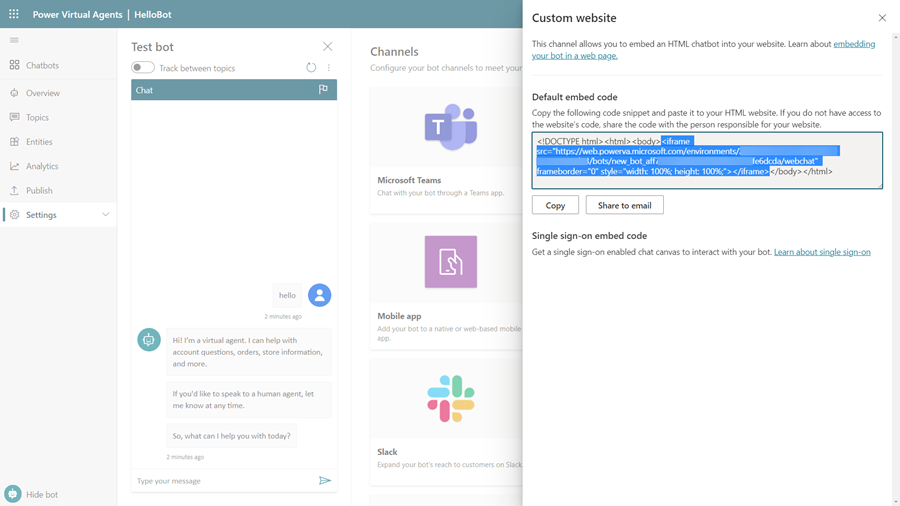
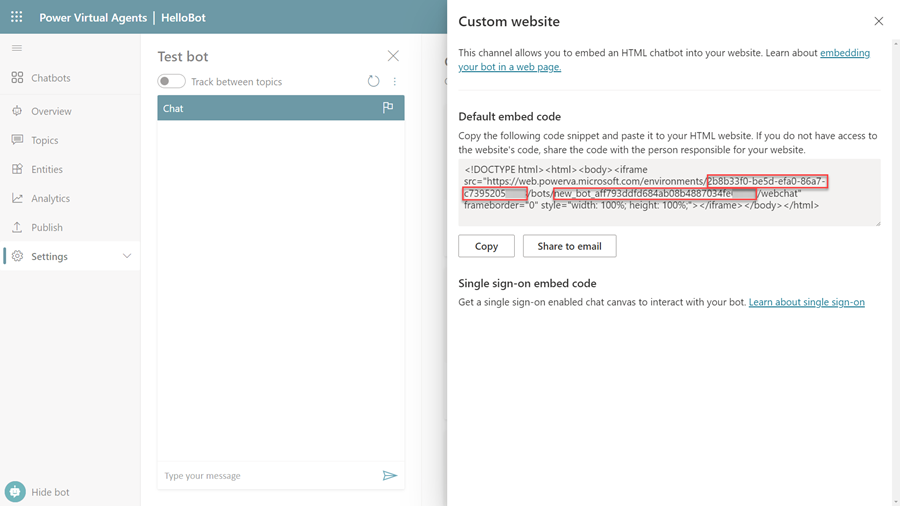
3148916

diff --git a/power-pages-docs/guidance/integrate-pva.md b/power-pages-docs/guidance/integrate-pva.md
@@ -1,23 +1,32 @@
 ---
 title: "How to: Embed a chatbot on a webpage"
 description: Learn how to embed a Power Virtual Agent chatbot on a webpage in Power Pages.
-author: ckwan-ms
+author: neerajnandwana-msft
 ms.topic: guidance
 ms.custom: 
 ms.date: 01/23/2023
 ms.subservice:
-ms.author: ckwan 
+ms.author: nenandw 
 ms.reviewer: ndoelman
 contributors:
     - nickdoelman
-    - ckwan-ms
+    - neerajnandwana-msft
 ---
 
 # How to: Embed a chatbot on a webpage
 
 The Power Pages design studio does not have the ability to directly add a chatbot component to a webpage. 
 
-While you can [add a chatbot](/power-apps/maker/portals/add-chatbot) using the legacy portal Studio for websites created in Power Apps, the following steps provide an alternative method to embed a Power Virtual Agent chatbot on a Power Pages webpage.
+> [!NOTE]
+> You can [add a chatbot](/power-apps/maker/portals/add-chatbot) using the legacy portal Studio for websites created in Power Apps.
+
+The following steps provide an alternative pro-developer method to embed a Power Virtual Agent chatbot on a Power Pages webpage.
+
+> [!CAUTION]
+> Adding a chatbot with this method has the following limitations:
+> - You will only be able to edit the bot attributes by modifying the Power Virtual Agents web template.
+> - You will only be able to enable the chatbot for the entire site.
+> - You will not be able to enable the chatbot only for specific pages.
 
 ## Prerequisites
 
@@ -26,9 +35,9 @@ While you can [add a chatbot](/power-apps/maker/portals/add-chatbot) using the l
 - A Power Virtual Agents subscription or trial. [Sign up for a Power Virtual Agents trial](/power-virtual-agents/sign-up-individual).
 - A Power Virtual Agents chatbot. [Create and delete Power Virtual Agents bots](/power-virtual-agents/authoring-first-bot).
 
-## Configure a channel for your chatbot
+## Locate environment id and chatbot id
 
-In the following steps we will get the chatbot embed code that we will use to embed into Power Pages.
+In the following steps we will get the chatbot environment id and chatbot id that we will use to embed into Power Pages.
 
 1. The Power Virtual Agents home page, select **Publish** from the side menu.
 
@@ -38,32 +47,145 @@ In the following steps we will get the chatbot embed code that we will use to em
 
 1. In the **Channels** section, select **Custom website**.
 
-1. In the slide-out panel in the **Default embed code** section, select and copy the code in the `<iframe></iframe>` HTML tags.
+1. In the slide-out panel in the **Default embed code** section, select and copy the GUID following the `/environments/` path (this is the **environment id**) and the code following the `/bots/` path (this is the **chatbot id**).
 
     :::image type="content" source="media/pva/embedcode.png" alt-text="Copying the embed code.":::
 
-## Embed a chatbot to a webpage using the code editor
+## Update the Power Virtual Agents web template
 
-The following steps will show you how to embed the chatbot code on a webpage.
+In order to surface a chatbot on site created in Power Pages, you will need to modify the Power Virtual Agents web template.
+
+1. Launch the [Portals Management app](../configure/portal-management-app.md).
+
+1. Locate the **Web Templates** section under the **Content** area, and choose the **Power Virtual Agents** web template.
+
+1. Make the following changes to the web template:
+
+    1. Comment out the `var botConfig = {{botConfig}}` line.
+
+        ```html
+        //var botConfig = {{botConfig}}
+        ```
+
+    1. Immediately following this line, add the following code:
+
+        ```html
+        var botConfig = { 
+                        "webChatHeaderStyleOptions": { 
+                            "fontColor": "#2E456B", 
+                            "backgroundColor": "#FEA002" 
+                            }, 
+                        "webChatCanvasStyleOptions": { 
+                            "backgroundColor": "#FFFFFF", 
+                            "bubbleBackground": "#88ABA2", 
+                            "bubbleTextColor": "#505254", 
+                            "bubbleFromUserBackground": "#88ABA2", 
+                            "bubbleFromUserTextColor": "#505254" 
+                            }, 
+                        "webChatWidgetStyleOptions": { 
+                            "iconColor": "#2E456B", 
+                            "backgroundColor": "#FEA002" 
+                            } 
+                        }; 
+        ```    
+    1. Replace the values for the `botSchemaName` and `environmentId` with the values you copied from the chatbot embed code.
+    
+        Old values:
+        ```html
+        "botSchemaName": "{{ botconsumer.adx_botschemaname }}",
+        "environmentId": "{{ env.Id }}",
+        ```
+        
+        Updated values (example):
+        ```html
+        "botSchemaName": "new_bot_aff793eefd684ab08b5867034fe6dfec",
+        "environmentId": "2b8b33f0-be5d-efa0-86a7-c7395204ed15",
+        ```
+1. Select **Save**.
+
+1. The updated web template should look like the following:
+
+```html
+<!-- Power virtual agents web template V2.0-->
+{% assign botconsumer = entities.adx_botconsumer[bot_consumer_id] %}
+{% assign env = environment %}
+{% assign languageCode = website.selected_language.code %}
+{% assign botConfig = botconsumer.adx_configjson %}
+<div class="pva-floating-style">
+    <div name="webChat"></div>
+    <script type="text/javascript" id="pvaChatInlineScript">
+        var script = document.createElement('script');
+        script.onload = function() {
+            //var botConfig = {{botConfig}};
+            var botConfig = { 
+                            "webChatHeaderStyleOptions": { 
+                                "fontColor": "#2E456B", 
+                                "backgroundColor": "#FEA002" 
+                                }, 
+                            "webChatCanvasStyleOptions": { 
+                                "backgroundColor": "#FFFFFF", 
+                                "bubbleBackground": "#88ABA2", 
+                                "bubbleTextColor": "#505254", 
+                                "bubbleFromUserBackground": "#88ABA2", 
+                                "bubbleFromUserTextColor": "#505254" 
+                                }, 
+                            "webChatWidgetStyleOptions": { 
+                                    "iconColor": "#2E456B", 
+                                    "backgroundColor": "#FEA002" 
+                                } 
+                            }; 
+            // Learn more about advanced configuration: https://go.microsoft.com/fwlink/?linkid=2147420
+            const webChatHeaderStyleOptions = botConfig?.webChatHeaderStyleOptions;
+            const webChatCanvasStyleOptions = botConfig?.webChatCanvasStyleOptions;
+            const webChatWidgetStyleOptions = botConfig?.webChatWidgetStyleOptions;
+            const botTitle = botConfig?.headerText;
+            let chatWidth = "320px";
+            let chatHeight =  "480px";
+            window.PvaEmbeddedWebChat.renderWebChat(
+            {
+                "container": document.getElementsByName('webChat')[0],
+                "botSchemaName": "new_bot_aff793eefd684ab08b5867034fe6dfec",
+                "environmentId": "2b8b33f0-be5d-efa0-86a7-c7395204ed15",
+                "width": chatWidth,
+                "height": chatHeight,
+                "client": "msportals", // client and version is needed for the ease of future breaking changes
+                "version": "v1",
+                "headerText": botTitle,
+                "webChatCanvasStyleOptions": webChatCanvasStyleOptions,
+                "webChatHeaderStyleOptions": webChatHeaderStyleOptions,
+                "webChatWidgetStyleOptions": webChatWidgetStyleOptions,
+                "accessibilityLanguage": "{{languageCode}}"
+            });
+        }
+        script.src = "https://embed.powerva.microsoft.com/webchat/embedded.js?client=msportals&version=v1";
+        document.getElementsByTagName('head')[0].appendChild(script);
+    </script>
+</div>
+```
+
+## Modify the website header
+
+Code will need to be added to the header in order to surface the chatbot on the Power Pages site.
 
 1. Go to [Power Pages](https://aka.ms/mpp).
 
-1. Select **Edit** on the site you want to add a page. If you don't have a site, [create a site](../getting-started/create-manage.md) before continuing.
+1. Select **Edit** on the site you want to add the chatbot. 
 
-1. Locate or create a webpage where you want to host the chatbot.
+1. In the design studio Pages workspace, select the header section on the canvas and select **Edit code**.
 
-1. Add a [section](../getting-started/add-sections.md) where you want to place the chatbot.
+    :::image type="content" source="media/pva/edit-header-code.png" alt-text="Edit header code.":::
 
-    > [!NOTE]
-    > You may have to adjust the section height to accommodate your chatbot.
+1. Select **Open Visual Studio Code**
 
-1. Select **Edit code**, followed by **Open Visual Studio Code**. This will open the Visual Studio for the Web interface.
+1. Using the **chatbot id** you copied from Power Virtual Agents, paste the following line of code at the end of the **Header.html** file:
 
-1. Paste the `<iframe></iframe>` code you copied earlier in between the `<div></div>` tags of the section of the page.
-
-    :::image type="content" source="media/pva/vscode-pva.png" alt-text="Adding PVA using VS Code for the Web.":::
+    ```html
+    {% include 'Power Virtual Agents' bot_consumer_id: "new_bot_aff793eefd684ab08b5867034fe6dfec" %} 
+    ```
 
 1. Select **CTRL-S** to save the code.
+
+    :::image type="content" source="media/pva/vscode-pva.png" alt-text="Adding PVA using VS Code for the Web.":::
 
 1. In the Power Pages design studio, select **Sync** to update the webpage.
 
